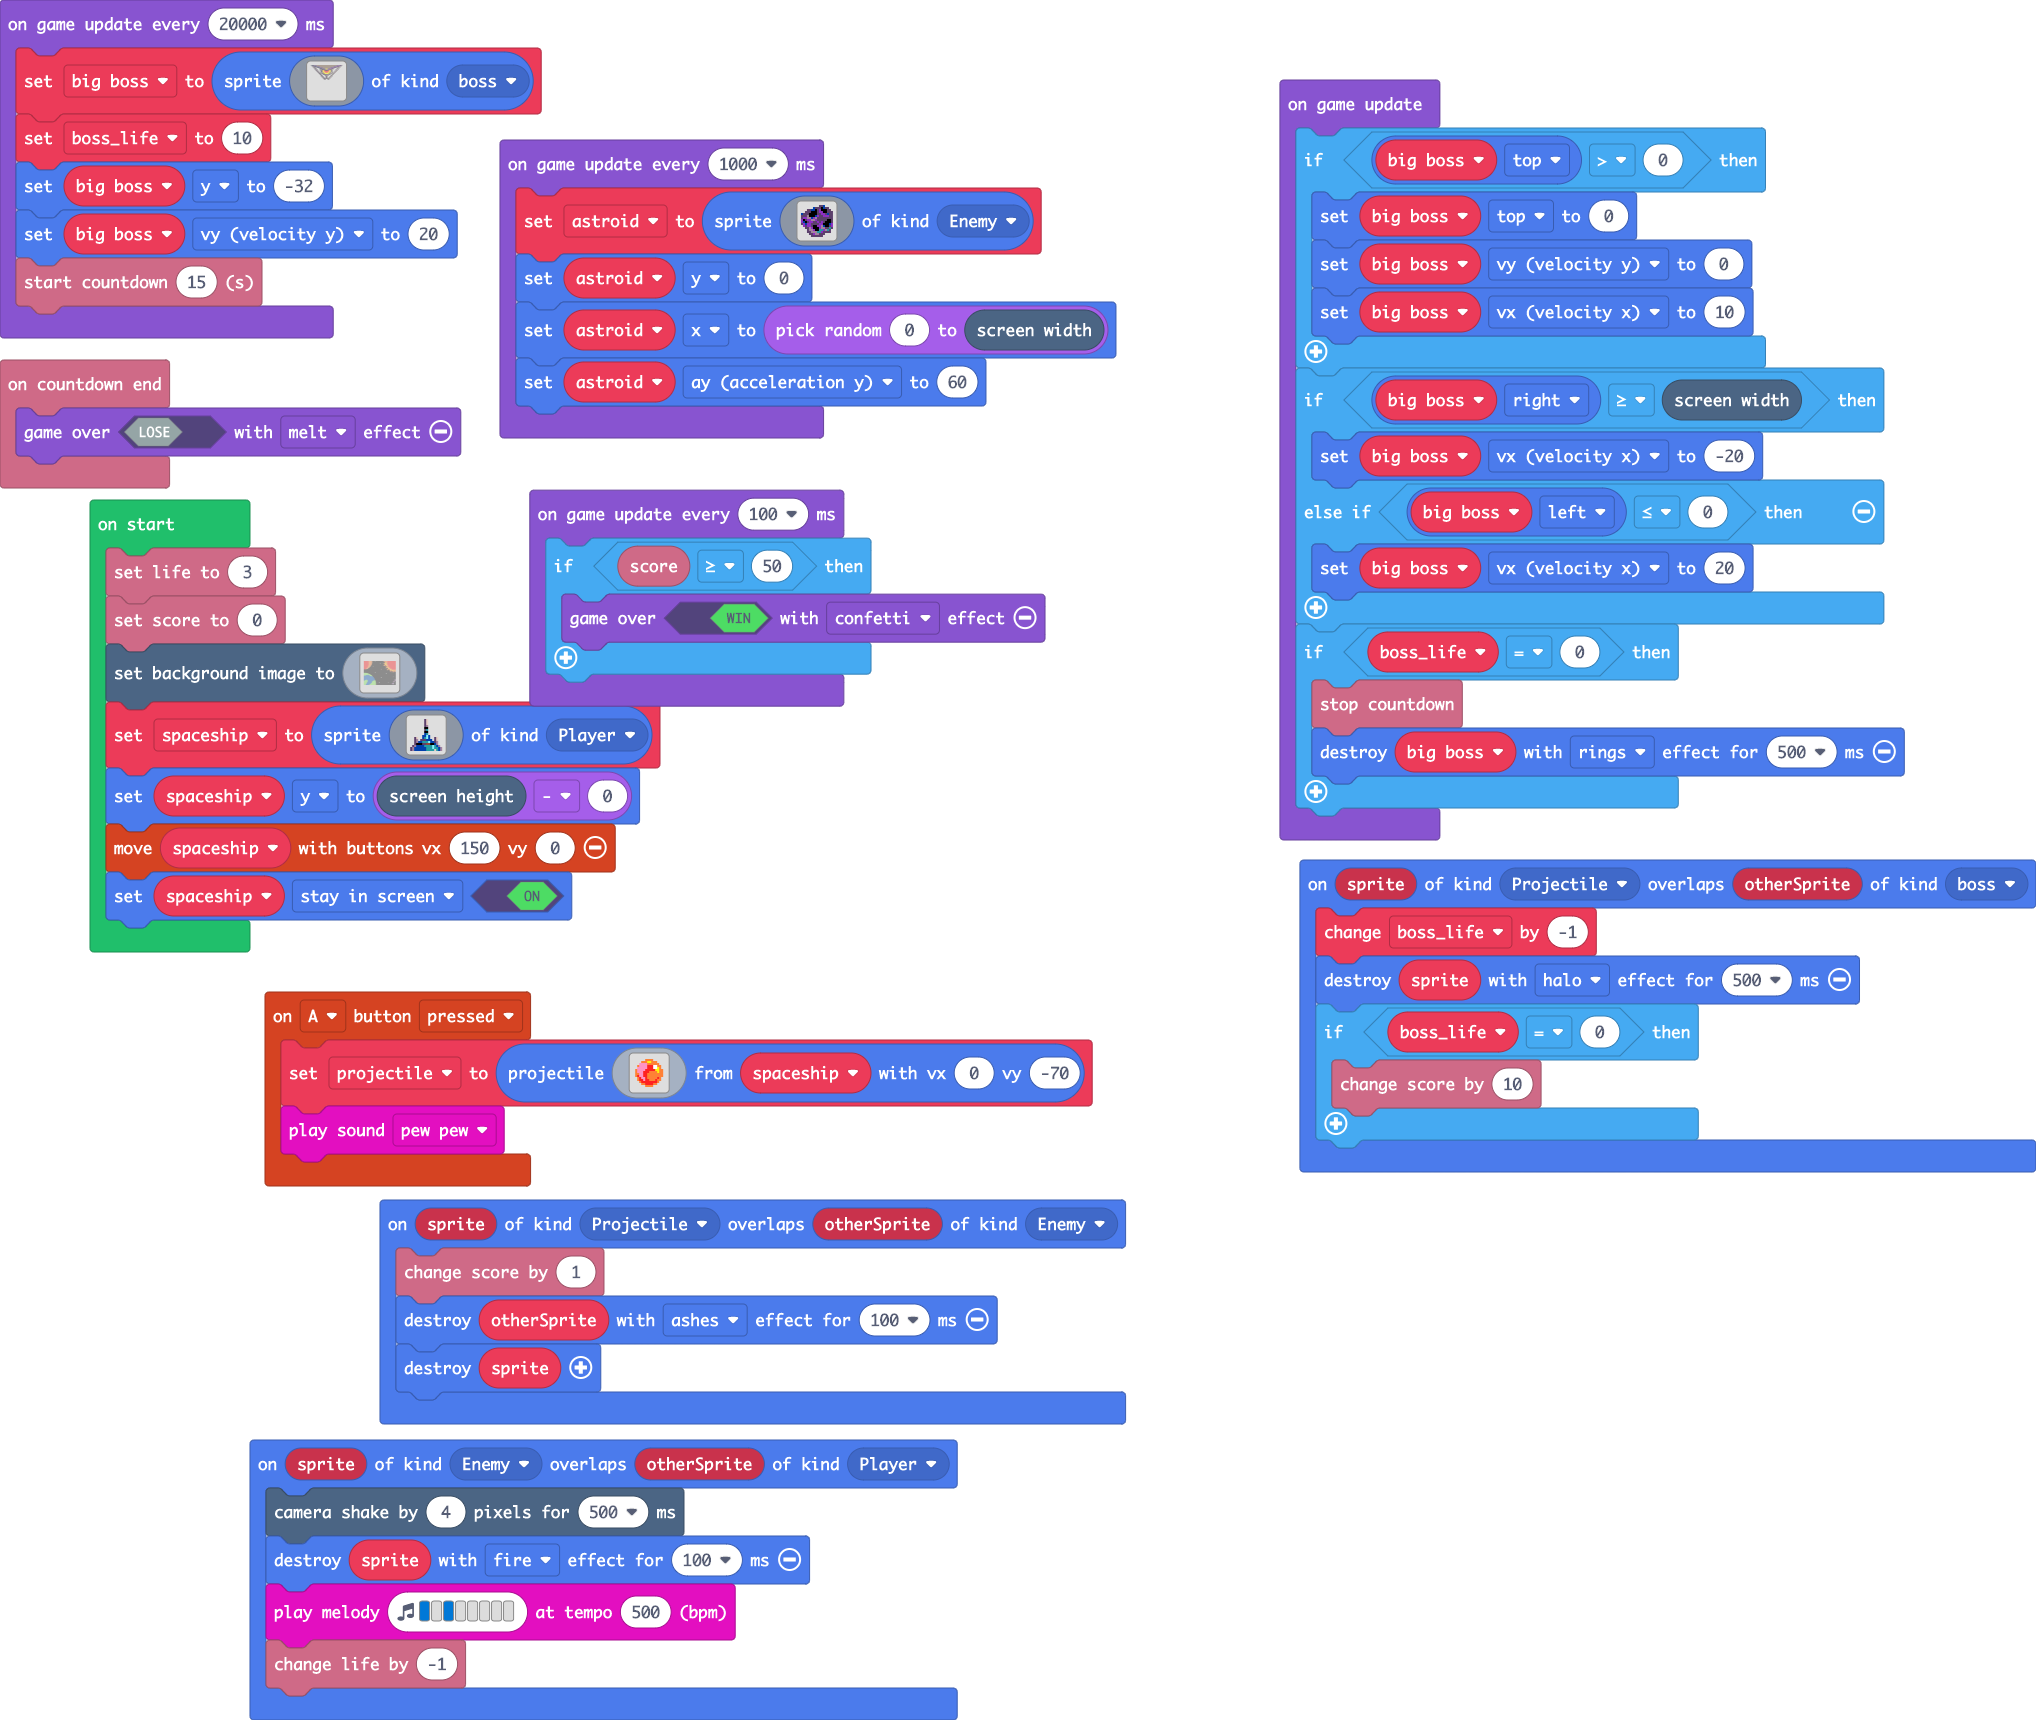
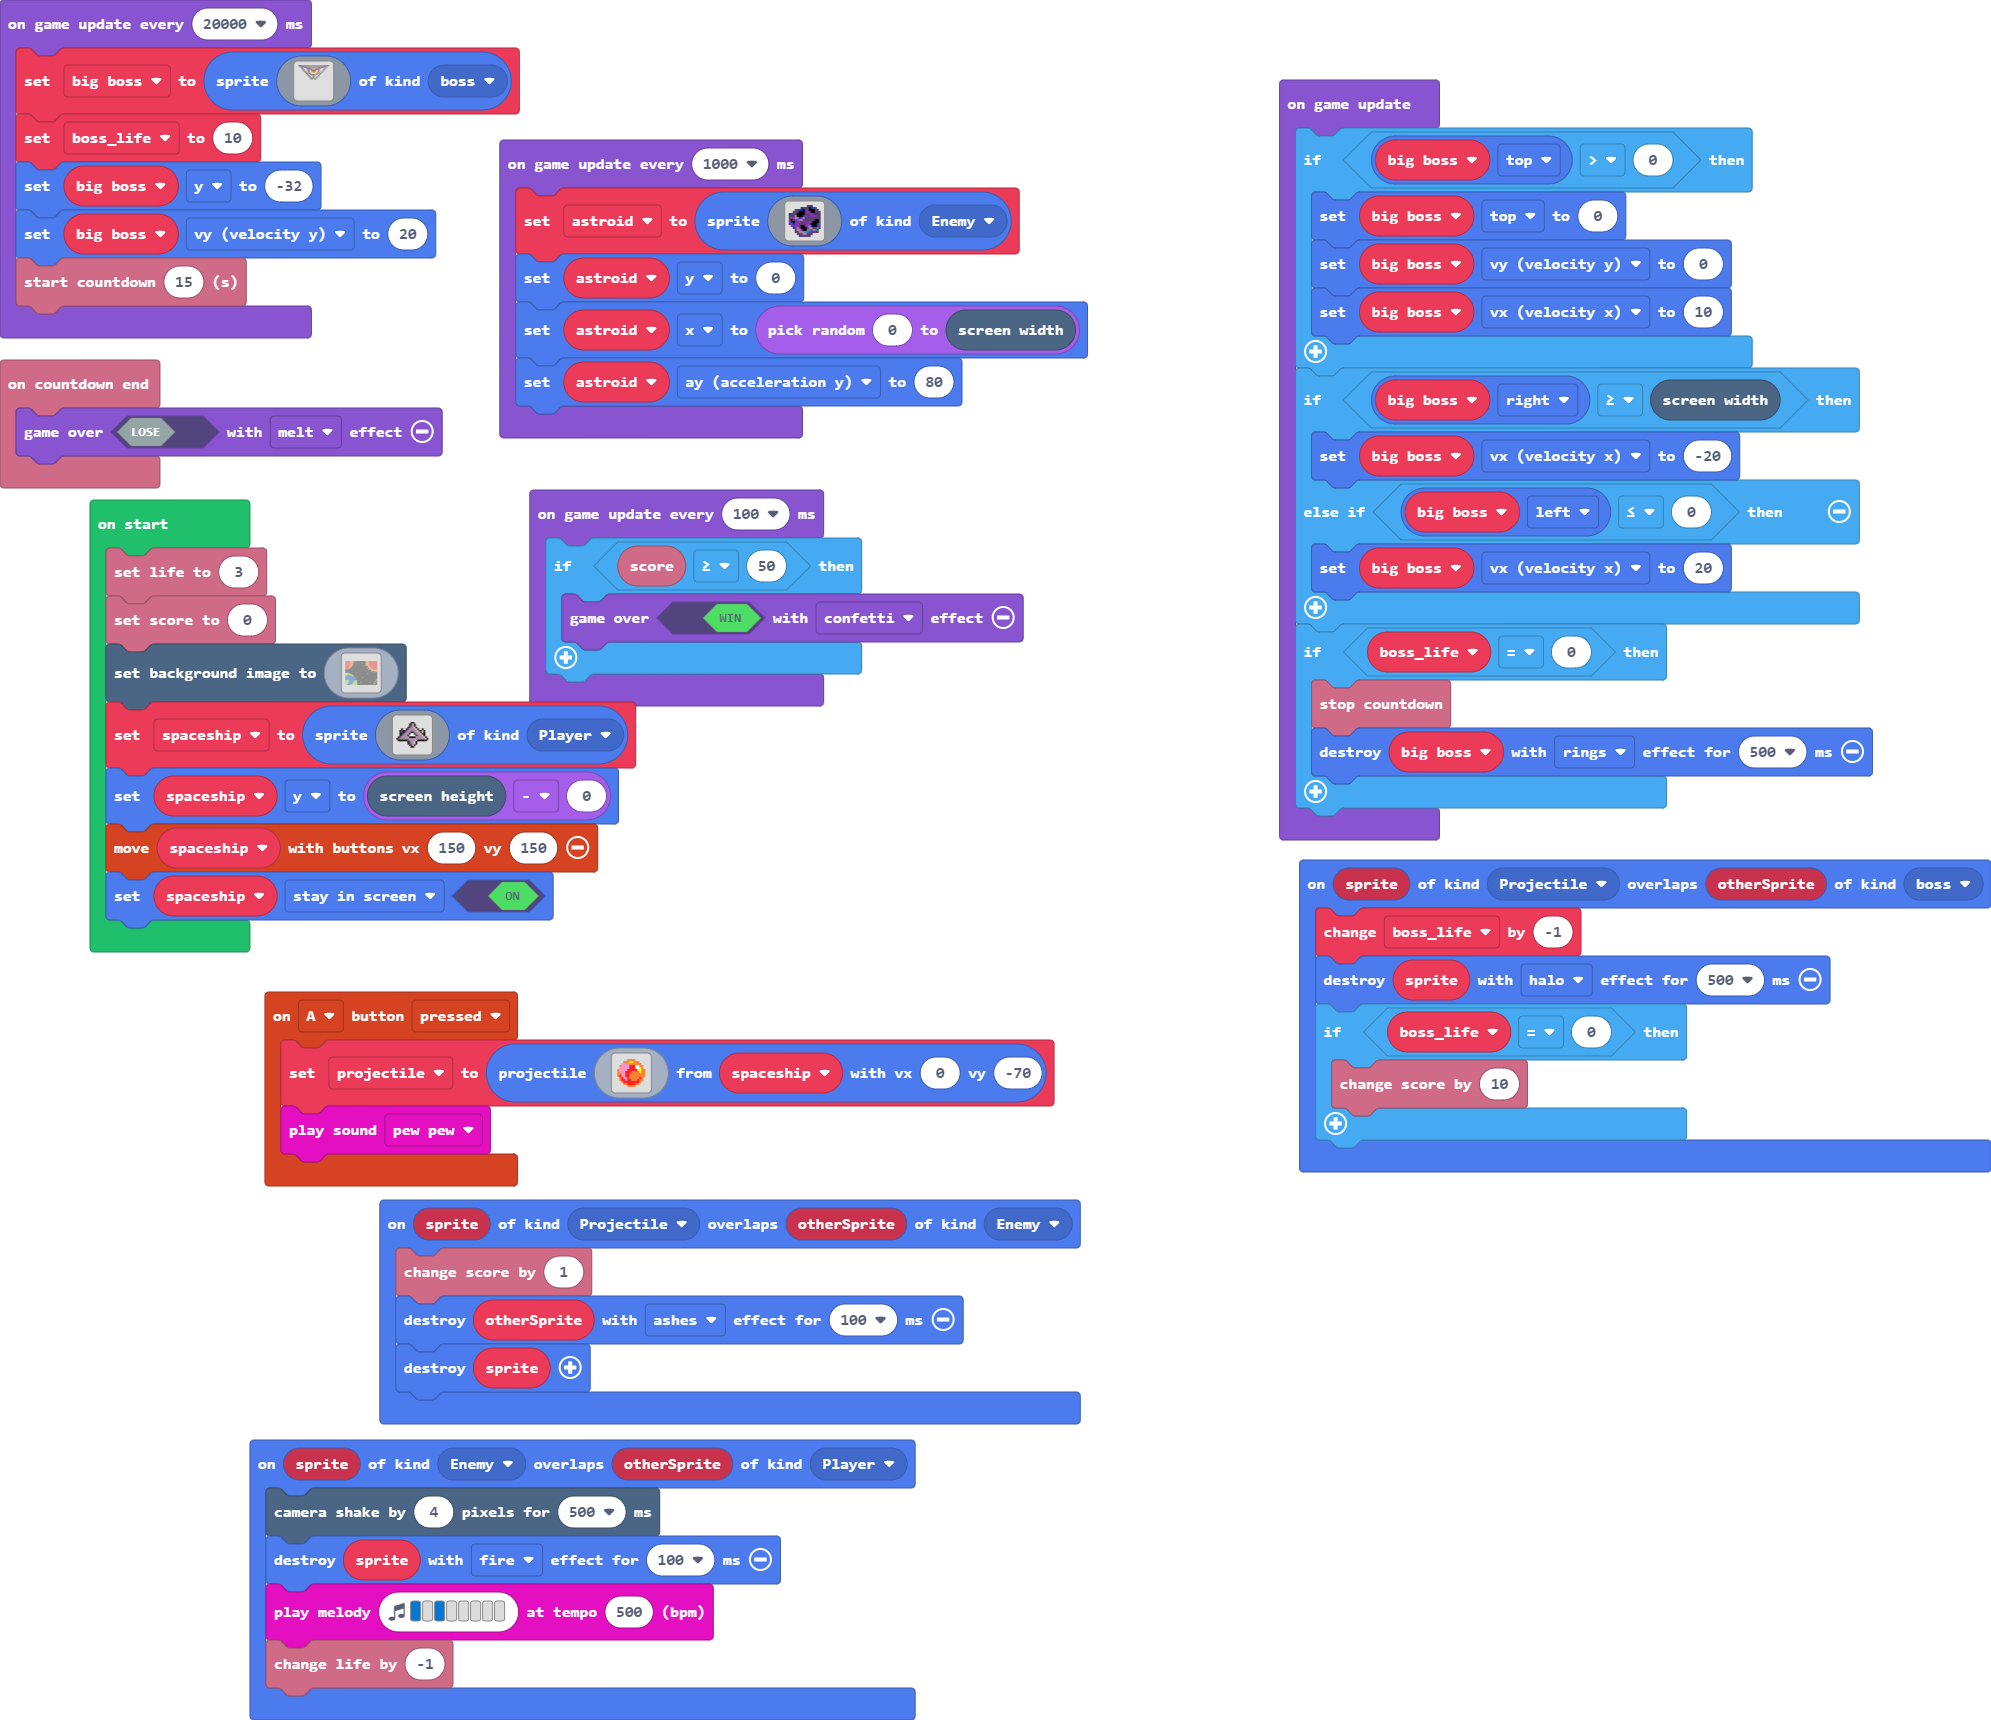
Update main.blocks, main.ts

diff --git a/main.ts b/main.ts
@@ -173,25 +173,25 @@ scene.setBackgroundImage(img`
[1 lines of base64/hex data omitted]
     `)
 spaceship = sprites.create(img`
-    . . . . . . . c d . . . . . . . 
-    . . . . . . . c d . . . . . . . 
-    . . . . . . . c d . . . . . . . 
-    . . . . . . . c b . . . . . . . 
-    . . . . . . . f f . . . . . . . 
-    . . . . . . . c 6 . . . . . . . 
-    . . . . . . . f f . . . . . . . 
-    . . . . . . . 8 6 . . . . . . . 
-    . . . . . . 8 8 9 8 . . . . . . 
-    . . c d . . 8 6 9 8 . . c d . . 
-    . . c b . c c c 8 8 8 . c d . . 
-    . . c b 8 8 6 6 6 9 8 8 c b . . 
-    . . c f f f c c e e f f 8 b . . 
-    . c b 8 8 8 8 6 6 6 6 9 6 8 b . 
-    c b 8 8 8 8 8 8 6 6 6 9 6 6 8 b 
-    c b 8 8 8 8 8 8 6 6 6 6 d 6 8 b 
+    .........ff.........
+    ........fcdf........
+    ........fcdf........
+    .......fcbbdf.......
+    ...f..fcbbbbdf..f...
+    ..fcffcbbbbbbdffdf..
+    ..fcfcbbbffbbbdfdf..
+    ..ffcbbbf11fbbbdff..
+    ..fcbbbf1111fbbbdf..
+    .fcbbbbbffffbbbbbdf.
+    fcbbbbbbbbbbbbbbbbdf
+    .ffffffcbbbbdffffff.
+    .......fcbbdf.......
+    .......fcbbdf.......
+    ........fcdf........
+    .........ff.........
     `, SpriteKind.Player)
 spaceship.y = scene.screenHeight() - 0
-controller.moveSprite(spaceship, 150, 0)
+controller.moveSprite(spaceship, 150, 150)
 spaceship.setFlag(SpriteFlag.StayInScreen, true)
 game.onUpdate(function () {
     if (big_boss.top > 0) {
@@ -230,7 +230,7 @@ game.onUpdateInterval(1000, function () {
         `, SpriteKind.Enemy)
     astroid.y = 0
     astroid.x = randint(0, scene.screenWidth())
-    astroid.ay = 60
+    astroid.ay = 80
 })
 game.onUpdateInterval(100, function () {
     if (info.score() >= 50) {
@@ -239,24 +239,24 @@ game.onUpdateInterval(100, function () {
 })
 game.onUpdateInterval(20000, function () {
     big_boss = sprites.create(img`
-        .ff8ccccccccccccccccccccccccccccccccccccccccccccccccccccccaaaff.
-        ...fff8ccccc5c5c5c5c5c5c5c5c5c5c5c5c5c5c5c5c5c5c5c5cccccaafff...
-        ...fcbff8ccccccccccccccccccccccccccccccccccccccccccccaaaffbdf...
-        ....fcbbfff8cccccc5c5c5c5c5c5c5c5c5c5c5c5c5c5cccccaaafffbbdf....
-        .....fcbf..fff8ccccccccccccccccccccccccccccccccaaafff..fbdf.....
-        ......fcbf....fff8cccccc5c5c5c5c5c5c5c5ccccccaafff....fbdf......
-        .......fcbf......ff8ccccccccccccccccccccccaaaff......fbdf.......
-        ........fcbf.......fff8cccccc555555ccccaaafff.......fbdf........
-        .........fcbf......fcbfff8cccc5555cccaafffbdf......fbdf.........
-        .........fcbf......fcbbf5ff8ccccccaaaff5fbdf.......fbdf.........
-        ..........fcbf.....fcbbf554fff8caafff455fbdf......fbdf..........
-        ...........fcbf.....fcbf554422ffff224455fbdf.....fbdf...........
-        ............fcbf....fcbf5544222222224455fbdf....fbdf............
-        .............fcbf...fcbf5554422222244555fdf....fbdf.............
-        ..............fcbf...fcbf55544222244555fbdf...fbdf..............
-        ...............fcbf..fcbf55554444445555fbdf..fbdf...............
-        ................fcbf.fcbbf555555555555fbbdf.fbdf................
-        .................fcf..ffcbff55555555ffbdff..fdf.................
+        .ff888ccccccccccccccccccccccccccccccccccccccccccccccccccccaaaff.
+        ...fff88cccc5c5c5c5c5c5c5c5c5c5c5c5c5c5c5c5c5c5c5c5cccccaafff...
+        ...fcbff888ccccccccccccccccccccccccccccccccccccccccccaaaffbdf...
+        ....fcbbfff888cccc5c5c5c5c5c5c5c5c5c5c5c5c5c5cccccaaafffbbdf....
+        .....fcbf..fff888ccccccccccccccccccccccccccccccaaafff..fbdf.....
+        ......fcbf....fff88ccccc5c5c5c5c5c5c5c5ccccccaafff....fbdf......
+        .......fcbf......ff888ccccccccccccccccccccaaaff......fbdf.......
+        ........fcbf.......fff888cccc555555ccccaaafff.......fbdf........
+        .........fcbf......fcbfff88ccc5555cccaafffbdf......fbdf.........
+        .........fcbf......fcbbf1ff88cccccaaaff1fbdf.......fbdf.........
+        ..........fcbf.....fcbbf154fff88aafff451fbdf......fbdf..........
+        ...........fcbf.....fcbf154422ffff224451fbdf.....fbdf...........
+        ............fcbf....fcbf1544222222224451fbdf....fbdf............
+        .............fcbf...fcbf1554422222244551fdf....fbdf.............
+        ..............fcbf...fcbf15544222244551fbdf...fbdf..............
+        ...............fcbf..fcbf15554444445551fbdf..fbdf...............
+        ................fcbf.fcbbf115555555511fbbdf.fbdf................
+        .................fcf..ffcbff11111111ffbdff..fdf.................
         ..................fcf...ffcbffffffffbdff...fdf..................
         ...................fcf....ffcbbbbbbdff....fdf...................
         ....................fcf.....ffcbbdff.....fdf....................
